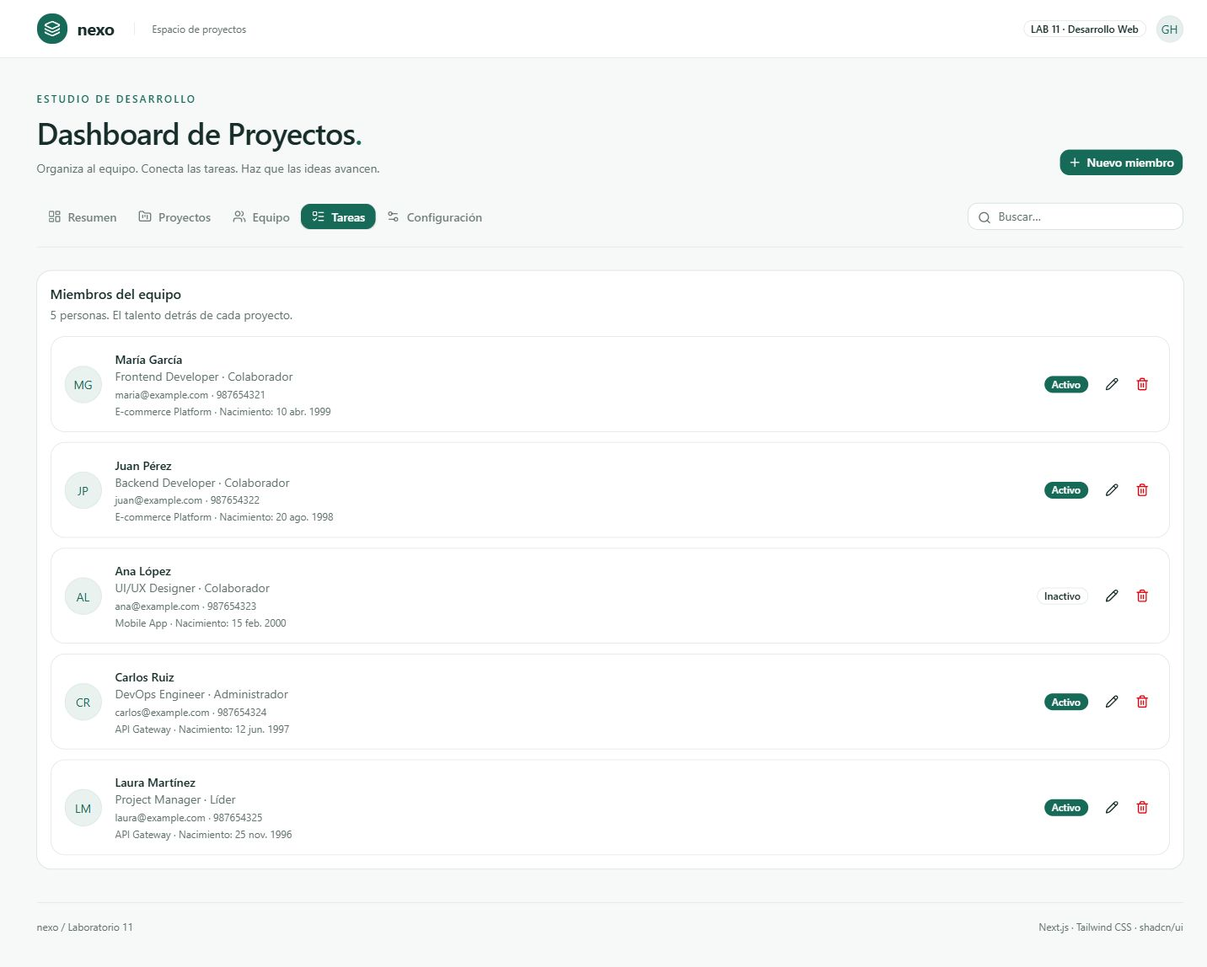
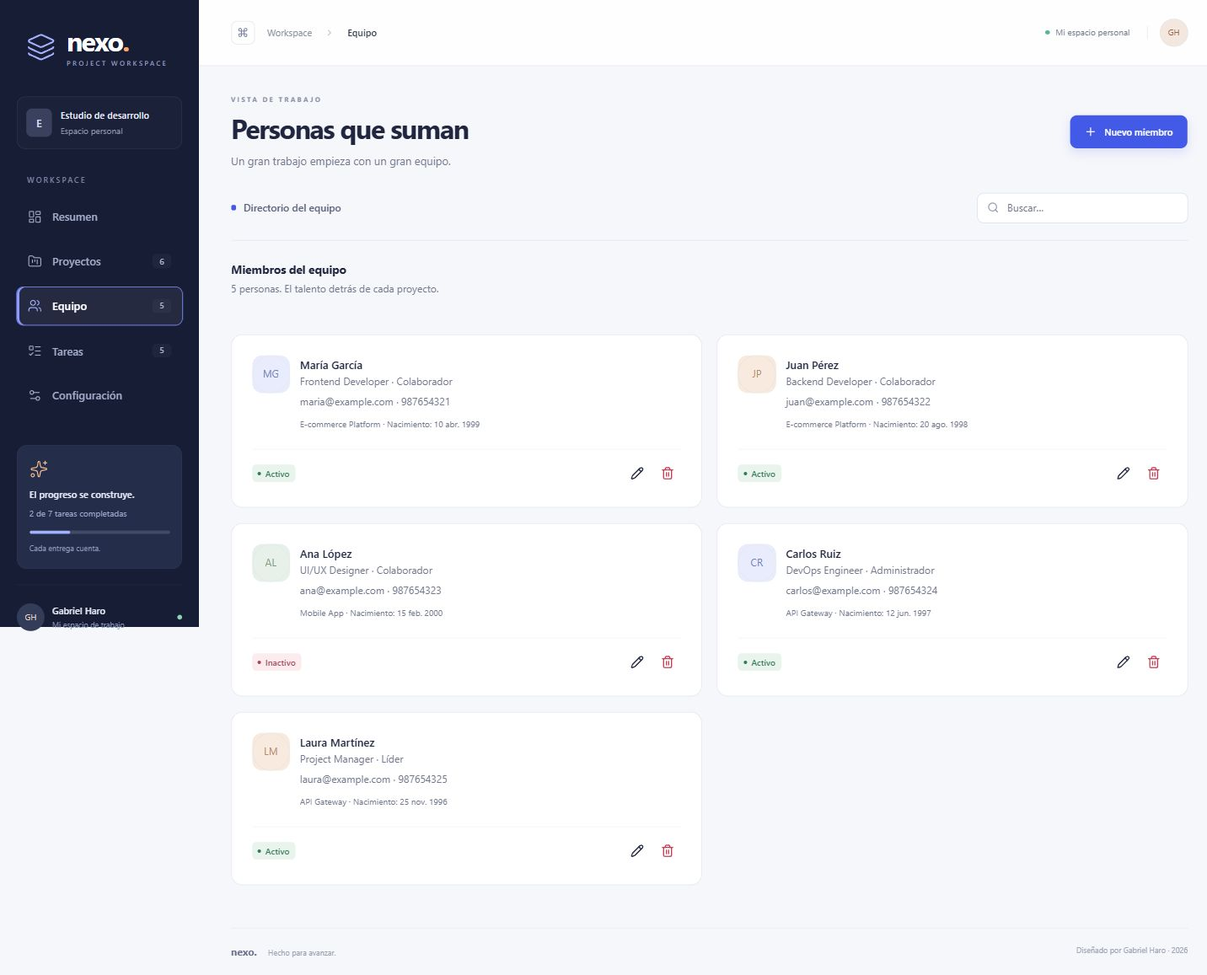
Actualizar informe y evidencias del diseño profesional

diff --git a/informe/Laboratorio11-GabrielHaroVargas.html b/informe/Laboratorio11-GabrielHaroVargas.html
@@ -1,1 +1,1 @@
-<!doctype html><html lang="es"><meta charset="utf-8"><meta name="viewport" content="width=device-width,initial-scale=1"><title>Laboratorio 11 Gabriel Haro Vargas</title><style>body{font:16px/1.65 "Segoe UI",Arial,sans-serif;color:#1e293b;background:#fff;max-width:1000px;margin:48px auto;padding:0 24px}h1{font-size:32px;line-height:1.25}h1,h2{color:#000}h2{font-size:23px;margin-top:38px}p{margin:16px 0}.meta,figcaption{color:#64748b;font-size:14px}figure{margin:24px 0}img{width:100%;height:auto;border:1px solid #ddd}li{margin:12px 0}a{color:#176958;overflow-wrap:anywhere}@media print{body{margin:0;font-size:11pt}section{break-before:auto}figure{break-inside:avoid}h2{break-after:avoid}img{max-height:7in;object-fit:contain}a{color:#000}}</style><body><h1>Laboratorio 11 Componentes y estilización</h1><p class="meta">Gabriel Haro Vargas · Desarrollo de Aplicaciones Web Avanzado · Laboratorio 11 · 31 de octubre de 2026</p><section><h2>Objetivo y resultado</h2><p>Se desarrollaron dos aplicaciones independientes con Next.js 16.4.3, React 19.3.0, TypeScript y Tailwind CSS 4. El primer ejercicio demuestra componentes reutilizables. El segundo implementa un dashboard con shadcn/ui y la lógica de negocio solicitada en la tarea. El código compila, pasa ESLint y las nueve pruebas de reglas de negocio.</p></section><section><h2>Ejercicio 1 Componentes reutilizables</h2><p>Button utiliza CSS Modules para el efecto de onda, gradientes, transiciones y spinner. Card y Badge emplean utilidades de Tailwind para estructura, colores y tamaños. Input combina etiqueta flotante y animación de error mediante CSS Modules con disposición adaptable y espaciado mediante Tailwind. Se corrigió la asociación entre etiquetas y campos, y se reforzó la validación del correo electrónico.</p><figure><img src="../evidencias/01-styling.jpg" alt="Ejercicio 1 Componentes reutilizables"><figcaption>Captura real de la aplicación en ejecución</figcaption></figure></section><section><h2>Resultado de combinar CSS Modules y TailwindCSS</h2><p>La combinación permite separar los efectos específicos del componente de las decisiones generales de diseño. Los módulos aíslan los estilos de onda, giro y etiqueta flotante para evitar colisiones entre componentes. Las utilidades de Tailwind permiten construir las tarjetas, rejillas, colores y tamaños sin escribir una hoja global extensa. En el formulario se observa esta integración: la etiqueta cambia de posición con CSS y el contenedor conserva la estructura responsive con clases utilitarias. Conviene reservar CSS Modules para los comportamientos visuales particulares y mantener el diseño habitual con Tailwind para facilitar el mantenimiento.</p><figure><img src="../evidencias/01-styling-formulario.jpg" alt="Resultado de combinar CSS Modules y TailwindCSS"><figcaption>Captura real de la aplicación en ejecución</figcaption></figure></section><section><h2>Ejercicio 2 Componentes de shadcn ui</h2><p>Se instalaron mediante el CLI oficial los componentes button, card, input, label, dialog, tabs, select, badge, avatar, switch, table, checkbox, spinner, alert, calendar, pagination, popover y textarea. Su código se encuentra en next-shadcn-ui/src/components/ui. Se utiliza una paleta verde petróleo y se ofrecen alternativas índigo y rosa en Configuración. La interfaz contiene las cinco secciones requeridas.</p></section><section><h2>Proyectos</h2><p>Se implementaron creación, listado, edición, vista de detalles y eliminación. Cada proyecto tiene nombre, descripción, categoría, prioridad, estado y miembros del equipo. Los detalles muestran miembros, tareas y porcentaje de avance calculado. Se rechazan nombres duplicados y datos obligatorios incompletos. Al eliminar un proyecto se eliminan sus tareas y se conservan los miembros. Esta consecuencia se informa antes de confirmar.</p><figure><img src="../evidencias/03-validacion.jpg" alt="Proyectos"><figcaption>Captura real de la aplicación en ejecución</figcaption></figure></section><section><h2>Equipo</h2><p>Se implementó el CRUD de miembros con todos los campos solicitados: userId, role, name, email, position, birthdate, phone, projectId e isActive. El identificador se genera automáticamente. Se comprueba formato de correo, duplicados, teléfono y fecha de nacimiento anterior a hoy. El proyecto principal y la pertenencia a equipos se mantienen relacionados. Eliminar un miembro conserva las tareas, pero las deja sin responsable.</p><figure><img src="../evidencias/04-equipo.jpg" alt="Equipo"><figcaption>Captura real de la aplicación en ejecución</figcaption></figure></section><section><h2>Tareas y paginación</h2><p>Se implementó el CRUD con description, projectId, status, priority, userId y dateline. Se utiliza projectId como nombre canónico del campo escrito prjectId en la guía. El responsable debe pertenecer al proyecto seleccionado. Hay búsqueda, filtro de estado, selección de filas y paginación real. La segunda página muestra los registros 6 y 7 de los siete iniciales; el tamaño puede cambiarse a 5, 10 o 20.</p><figure><img src="../evidencias/05-tareas.jpg" alt="Tareas y paginación"><figcaption>Captura real de la aplicación en ejecución</figcaption></figure></section><section><h2>Calendar Spinner y Alert</h2><p>Calendar se utiliza para fecha de nacimiento y fecha límite, con selección de día, mes y año. Las operaciones de guardado y eliminación simulan una petición de 700 milisegundos con Spinner y bloqueo de envíos repetidos. Alert muestra validaciones y confirmaciones de guardado. No se conecta un backend real, conforme a la simulación solicitada.</p><figure><img src="../evidencias/06-calendario.jpg" alt="Calendar Spinner y Alert"><figcaption>Captura real de la aplicación en ejecución</figcaption></figure></section><section><h2>Configuración y resumen</h2><p>Configuración guarda el nombre del espacio, correo, tema de color, tamaño de página, notificaciones y resumen semanal. El tema y la paginación se aplican a la interfaz; las preferencias de envío son simuladas. Resumen calcula proyectos, tareas completadas, tareas pendientes y miembros activos a partir de los datos actuales. El avance general es completadas dividido entre total de tareas; los datos iniciales producen 6 proyectos, 2 tareas completadas, 5 pendientes, 4 miembros activos y 29 % de avance. No se presentan horas trabajadas ficticias porque no existe un registro de horas.</p><figure><img src="../evidencias/07-configuracion.jpg" alt="Configuración y resumen"><figcaption>Captura real de la aplicación en ejecución</figcaption></figure></section><section><h2>Persistencia y reglas de integridad</h2><p>Los registros viven en memoria y además se conservan en localStorage bajo la clave lab11-nexo-v1. Recargar conserva los cambios en el mismo navegador. No existe una base de datos compartida entre usuarios. Al cambiar relaciones se evitan referencias a miembros o proyectos inexistentes. Los identificadores se generan con crypto.randomUUID y los porcentajes se calculan desde las tareas.</p></section><section><h2>Comprobaciones realizadas</h2><p>Ambas aplicaciones respondieron HTTP 200 y completaron npm run build y npm run lint. Las nueve pruebas npm test verificaron métricas, creación y edición de proyectos, validaciones y fechas, CRUD de miembros, CRUD de tareas, pertenencia del responsable, eliminación en cascada, limpieza de responsables y retiro de miembros de proyectos. En navegador se verificaron CRUD de proyectos, miembros y tareas, persistencia tras recargar, paginación, actualización de métricas, calendario y guardado de configuración. En la galería se verificaron error de correo, carga simulada y alerta de envío válido. Se completó la revisión del dashboard publicado con viewport de 390 × 844: el ancho del documento fue 375 px frente a 390 px de viewport, sin desbordamiento horizontal de la página. Se añadieron capturas de Resumen, Proyectos y el árbol de componentes UI en GitHub.</p></section><section><h2>Enlaces de entrega</h2><ul><li>Repositorio GitHub: <a href="https://github.com/gabrielharo-dotcom/laboratorio11-componentes-dashboard">https://github.com/gabrielharo-dotcom/laboratorio11-componentes-dashboard</a></li><li>Dashboard local: <a href="http://localhost:3000/dashboard">http://localhost:3000/dashboard</a></li><li>Galería local: <a href="http://localhost:3001/styling">http://localhost:3001/styling</a></li></ul><p>Dashboard publicado y verificado en Vercel: https://nexo-lab11.vercel.app/dashboard. Se comprobó la carga del dashboard en producción. Galería de componentes publicada y verificada: https://componentes-lab11.vercel.app/styling. Ambas aplicaciones se desplegaron desde el mismo repositorio utilizando su carpeta raíz correspondiente.</p></section><section><h2>Cinco conclusiones</h2><ol><li>La separación en componentes reutilizables permitió mantener la misma apariencia y comportamiento en varias secciones. Centralizar los controles y formularios evita repetir cambios y facilita corregir las validaciones.</li><li>CSS Modules y TailwindCSS se complementan cuando cada uno tiene una responsabilidad clara. Los efectos de onda, giro y etiqueta flotante permanecen aislados, mientras que Tailwind agiliza el diseño y el espaciado.</li><li>Instalar componentes de shadcn/ui proporciona una base útil, pero no resuelve por sí solo la lógica del sistema. Fue necesario implementar relaciones, validaciones, estados de carga y consecuencias de eliminación para que el dashboard fuera funcional.</li><li>Calcular las métricas desde los registros evita inconsistencias. Durante la prueba, completar una tarea incrementó el contador de tareas completadas de 2 a 3; eliminar la tarea de prueba restauró los valores correspondientes.</li><li>La persistencia local es adecuada para practicar una aplicación con datos en memoria y comprobar el flujo completo. Para un uso real con varios usuarios harían falta una API, una base de datos y control de acceso; las pruebas de integridad preparan esa evolución sin confundir la simulación con un backend real.</li></ol></section><section><h2>Referencias</h2><p>Guía GLAB-S11-EAREVALO-2026-1 del docente Edwin William Arévalo Sermeño.</p><p><a href="https://nextjs.org/docs/app/getting-started/installation">Documentación de Next.js</a> · <a href="https://ui.shadcn.com/docs/components">Componentes de shadcn/ui</a></p></section><section><h2>Evidencias adicionales en producción</h2><h3>Resumen publicado</h3><figure><img src="../evidencias/02-resumen.jpg" alt="Resumen publicado"><figcaption>Resumen publicado</figcaption></figure><h3>Proyectos publicados</h3><figure><img src="../evidencias/02-proyectos.jpg" alt="Proyectos publicados"><figcaption>Proyectos publicados</figcaption></figure><h3>Revisión móvil</h3><figure><img src="../evidencias/08-movil.jpg" alt="Revisión móvil"><figcaption>Revisión móvil</figcaption></figure><h3>Carpeta de componentes UI</h3><figure><img src="../evidencias/09-componentes-ui.jpg" alt="Carpeta de componentes UI"><figcaption>Carpeta de componentes UI</figcaption></figure></section><section><h2>Galería publicada</h2><p><a href="https://componentes-lab11.vercel.app/styling">Abrir ejercicio 1 en Vercel</a></p><figure><img src="../evidencias/10-galeria-publicada.jpg" alt="Galería publicada"></figure></section></body></html>
+<!doctype html><html lang="es"><meta charset="utf-8"><meta name="viewport" content="width=device-width,initial-scale=1"><title>Laboratorio 11 Gabriel Haro Vargas</title><style>body{font:16px/1.65 "Segoe UI",Arial,sans-serif;color:#1e293b;background:#fff;max-width:1000px;margin:48px auto;padding:0 24px}h1{font-size:32px;line-height:1.25}h1,h2{color:#000}h2{font-size:23px;margin-top:38px}p{margin:16px 0}.meta,figcaption{color:#64748b;font-size:14px}figure{margin:24px 0}img{width:100%;height:auto;border:1px solid #ddd}li{margin:12px 0}a{color:#176958;overflow-wrap:anywhere}@media print{body{margin:0;font-size:11pt}section{break-before:auto}figure{break-inside:avoid}h2{break-after:avoid}img{max-height:7in;object-fit:contain}a{color:#000}}</style><body><h1>Laboratorio 11 Componentes y estilización</h1><p class="meta">Gabriel Haro Vargas · Desarrollo de Aplicaciones Web Avanzado · Laboratorio 11 · 31 de octubre de 2026</p><section><h2>Objetivo y resultado</h2><p>Se desarrollaron dos aplicaciones independientes con Next.js 16.4.3, React 19.3.0, TypeScript y Tailwind CSS 4. El primer ejercicio demuestra componentes reutilizables. El segundo implementa un dashboard con shadcn/ui y la lógica de negocio solicitada en la tarea. El código compila, pasa ESLint y las nueve pruebas de reglas de negocio.</p></section><section><h2>Ejercicio 1 Componentes reutilizables</h2><p>Button utiliza CSS Modules para el efecto de onda, gradientes, transiciones y spinner. Card y Badge emplean utilidades de Tailwind para estructura, colores y tamaños. Input combina etiqueta flotante y animación de error mediante CSS Modules con disposición adaptable y espaciado mediante Tailwind. Se corrigió la asociación entre etiquetas y campos, y se reforzó la validación del correo electrónico.</p><figure><img src="../evidencias/01-styling.jpg" alt="Ejercicio 1 Componentes reutilizables"><figcaption>Captura real de la aplicación en ejecución</figcaption></figure></section><section><h2>Resultado de combinar CSS Modules y TailwindCSS</h2><p>La combinación permite separar los efectos específicos del componente de las decisiones generales de diseño. Los módulos aíslan los estilos de onda, giro y etiqueta flotante para evitar colisiones entre componentes. Las utilidades de Tailwind permiten construir las tarjetas, rejillas, colores y tamaños sin escribir una hoja global extensa. En el formulario se observa esta integración: la etiqueta cambia de posición con CSS y el contenedor conserva la estructura responsive con clases utilitarias. Conviene reservar CSS Modules para los comportamientos visuales particulares y mantener el diseño habitual con Tailwind para facilitar el mantenimiento.</p><figure><img src="../evidencias/01-styling-formulario.jpg" alt="Resultado de combinar CSS Modules y TailwindCSS"><figcaption>Captura real de la aplicación en ejecución</figcaption></figure></section><section><h2>Ejercicio 2 Componentes de shadcn ui</h2><p>Se instalaron mediante el CLI oficial los componentes button, card, input, label, dialog, tabs, select, badge, avatar, switch, table, checkbox, spinner, alert, calendar, pagination, popover y textarea. Su código se encuentra en next-shadcn-ui/src/components/ui. Se utiliza un diseño propio con barra lateral azul medianoche, portada cobalto, acentos naranja y tarjetas de métricas en lavanda, verde suave, durazno y lila. Se ofrecen alternativas ciruela y lavanda, y terracota y arena en Configuración. La interfaz contiene las cinco secciones requeridas.</p></section><section><h2>Proyectos</h2><p>Se implementaron creación, listado, edición, vista de detalles y eliminación. Cada proyecto tiene nombre, descripción, categoría, prioridad, estado y miembros del equipo. Los detalles muestran miembros, tareas y porcentaje de avance calculado. Se rechazan nombres duplicados y datos obligatorios incompletos. Al eliminar un proyecto se eliminan sus tareas y se conservan los miembros. Esta consecuencia se informa antes de confirmar.</p><figure><img src="../evidencias/03-validacion.jpg" alt="Proyectos"><figcaption>Captura real de la aplicación en ejecución</figcaption></figure></section><section><h2>Equipo</h2><p>Se implementó el CRUD de miembros con todos los campos solicitados: userId, role, name, email, position, birthdate, phone, projectId e isActive. El identificador se genera automáticamente. Se comprueba formato de correo, duplicados, teléfono y fecha de nacimiento anterior a hoy. El proyecto principal y la pertenencia a equipos se mantienen relacionados. Eliminar un miembro conserva las tareas, pero las deja sin responsable.</p><figure><img src="../evidencias/04-equipo.jpg" alt="Equipo"><figcaption>Captura real de la aplicación en ejecución</figcaption></figure></section><section><h2>Tareas y paginación</h2><p>Se implementó el CRUD con description, projectId, status, priority, userId y dateline. Se utiliza projectId como nombre canónico del campo escrito prjectId en la guía. El responsable debe pertenecer al proyecto seleccionado. Hay búsqueda, filtro de estado, selección de filas y paginación real. La segunda página muestra los registros 6 y 7 de los siete iniciales; el tamaño puede cambiarse a 5, 10 o 20.</p><figure><img src="../evidencias/05-tareas.jpg" alt="Tareas y paginación"><figcaption>Captura real de la aplicación en ejecución</figcaption></figure></section><section><h2>Calendar Spinner y Alert</h2><p>Calendar se utiliza para fecha de nacimiento y fecha límite, con selección de día, mes y año. Las operaciones de guardado y eliminación simulan una petición de 700 milisegundos con Spinner y bloqueo de envíos repetidos. Alert muestra validaciones y confirmaciones de guardado. No se conecta un backend real, conforme a la simulación solicitada.</p><figure><img src="../evidencias/06-calendario.jpg" alt="Calendar Spinner y Alert"><figcaption>Captura real de la aplicación en ejecución</figcaption></figure></section><section><h2>Configuración y resumen</h2><p>Configuración guarda el nombre del espacio, correo, tema de color, tamaño de página, notificaciones y resumen semanal. El tema y la paginación se aplican a la interfaz; las preferencias de envío son simuladas. Resumen calcula proyectos, tareas completadas, tareas pendientes y miembros activos a partir de los datos actuales. El avance general es completadas dividido entre total de tareas; los datos iniciales producen 6 proyectos, 2 tareas completadas, 5 pendientes, 4 miembros activos y 29 % de avance. No se presentan horas trabajadas ficticias porque no existe un registro de horas.</p><figure><img src="../evidencias/07-configuracion.jpg" alt="Configuración y resumen"><figcaption>Captura real de la aplicación en ejecución</figcaption></figure></section><section><h2>Persistencia y reglas de integridad</h2><p>Los registros viven en memoria y además se conservan en localStorage bajo la clave lab11-nexo-v1. Recargar conserva los cambios en el mismo navegador. No existe una base de datos compartida entre usuarios. Al cambiar relaciones se evitan referencias a miembros o proyectos inexistentes. Los identificadores se generan con crypto.randomUUID y los porcentajes se calculan desde las tareas.</p></section><section><h2>Comprobaciones realizadas</h2><p>Ambas aplicaciones respondieron HTTP 200 y completaron npm run build y npm run lint. Las nueve pruebas npm test verificaron métricas, creación y edición de proyectos, validaciones y fechas, CRUD de miembros, CRUD de tareas, pertenencia del responsable, eliminación en cascada, limpieza de responsables y retiro de miembros de proyectos. En navegador se verificaron CRUD de proyectos, miembros y tareas, persistencia tras recargar, paginación, actualización de métricas, calendario y guardado de configuración. En la galería se verificaron error de correo, carga simulada y alerta de envío válido. Se completó la revisión del dashboard publicado con viewport de 390 × 844: el ancho del documento fue 375 px frente a 390 px de viewport, sin desbordamiento horizontal de la página. Se añadieron capturas de Resumen, Proyectos y el árbol de componentes UI en GitHub.</p></section><section><h2>Enlaces de entrega</h2><ul><li>Repositorio GitHub: <a href="https://github.com/gabrielharo-dotcom/laboratorio11-componentes-dashboard">https://github.com/gabrielharo-dotcom/laboratorio11-componentes-dashboard</a></li><li>Dashboard local: <a href="http://localhost:3000/dashboard">http://localhost:3000/dashboard</a></li><li>Galería local: <a href="http://localhost:3001/styling">http://localhost:3001/styling</a></li></ul><p>Dashboard publicado y verificado en Vercel: https://nexo-lab11.vercel.app/dashboard. Se comprobó la carga del dashboard en producción. Galería de componentes publicada y verificada: https://componentes-lab11.vercel.app/styling. Ambas aplicaciones se desplegaron desde el mismo repositorio utilizando su carpeta raíz correspondiente.</p></section><section><h2>Cinco conclusiones</h2><ol><li>La separación en componentes reutilizables permitió mantener la misma apariencia y comportamiento en varias secciones. Centralizar los controles y formularios evita repetir cambios y facilita corregir las validaciones.</li><li>CSS Modules y TailwindCSS se complementan cuando cada uno tiene una responsabilidad clara. Los efectos de onda, giro y etiqueta flotante permanecen aislados, mientras que Tailwind agiliza el diseño y el espaciado.</li><li>Instalar componentes de shadcn/ui proporciona una base útil, pero no resuelve por sí solo la lógica del sistema. Fue necesario implementar relaciones, validaciones, estados de carga y consecuencias de eliminación para que el dashboard fuera funcional.</li><li>Calcular las métricas desde los registros evita inconsistencias. Durante la prueba, completar una tarea incrementó el contador de tareas completadas de 2 a 3; eliminar la tarea de prueba restauró los valores correspondientes.</li><li>La persistencia local es adecuada para practicar una aplicación con datos en memoria y comprobar el flujo completo. Para un uso real con varios usuarios harían falta una API, una base de datos y control de acceso; las pruebas de integridad preparan esa evolución sin confundir la simulación con un backend real.</li></ol></section><section><h2>Referencias</h2><p>Guía GLAB-S11-EAREVALO-2026-1 del docente Edwin William Arévalo Sermeño.</p><p><a href="https://nextjs.org/docs/app/getting-started/installation">Documentación de Next.js</a> · <a href="https://ui.shadcn.com/docs/components">Componentes de shadcn/ui</a></p></section><section><h2>Evidencias adicionales en producción</h2><h3>Resumen publicado</h3><figure><img src="../evidencias/02-resumen.jpg" alt="Resumen publicado"><figcaption>Resumen publicado</figcaption></figure><h3>Proyectos publicados</h3><figure><img src="../evidencias/02-proyectos.jpg" alt="Proyectos publicados"><figcaption>Proyectos publicados</figcaption></figure><h3>Revisión móvil</h3><figure><img src="../evidencias/08-movil.jpg" alt="Revisión móvil"><figcaption>Revisión móvil</figcaption></figure><h3>Carpeta de componentes UI</h3><figure><img src="../evidencias/09-componentes-ui.jpg" alt="Carpeta de componentes UI"><figcaption>Carpeta de componentes UI</figcaption></figure></section><section><h2>Galería publicada</h2><p><a href="https://componentes-lab11.vercel.app/styling">Abrir ejercicio 1 en Vercel</a></p><figure><img src="../evidencias/10-galeria-publicada.jpg" alt="Galería publicada"></figure></section><section><h2>Rediseño profesional de la tarea</h2><p>El dashboard se rediseñó con una estructura distinta del ejemplo de la guía. La barra lateral contiene navegación, contadores y progreso; el resumen incorpora portada gráfica, métricas diferenciadas y agenda real de entregas. Los proyectos tienen portadas geométricas y el equipo se presenta como un directorio de tarjetas. Los colores de estado distinguen progreso, pendientes, completados y prioridad. En móvil la navegación cambia a una barra superior y las tarjetas se reorganizan. Se mantuvieron las funciones del laboratorio y la persistencia de los registros.</p><figure><img src="../evidencias/11-dashboard-redisenado.jpg" alt="Nuevo diseño del dashboard"></figure></section></body></html>

diff --git a/DISENO.md b/DISENO.md
@@ -1,0 +1,38 @@
+# Diseño de la tarea del laboratorio 11
+
+El dashboard Nexo utiliza una composición propia para distinguirse del ejemplo de la guía: navegación lateral azul medianoche, área de trabajo clara, portada cobalto, indicadores con tonos suaves y tarjetas de proyectos con portadas geométricas.
+
+## Paleta principal
+
+| Color | Valor | Uso |
+| --- | --- | --- |
+| Azul medianoche | `#171D35` | Navegación y marca |
+| Cobalto | `#4359E8` | Acciones principales y portada del resumen |
+| Naranja suave | `#F8C49C` | Énfasis en portada y avance |
+| Fondo frío | `#F6F7FB` | Área de trabajo |
+| Texto oscuro | `#202640` | Títulos y datos |
+| Lavanda | `#EBEDFF` | Proyectos y métricas de portafolio |
+| Verde suave | `#E9F5EE` | Tareas completadas |
+| Durazno | `#FFF0E4` | Tareas pendientes |
+| Lila | `#F3ECFB` | Equipo y categorías |
+
+## Composición y jerarquía
+
+- Barra lateral con marca, espacio de trabajo, cinco secciones, contadores reales y avance del equipo.
+- Encabezado con ruta de navegación y perfil. Cada sección tiene título y descripción propios.
+- Acción principal visible para crear un proyecto, miembro o tarea según el contexto.
+- Resumen con portada gráfica, avance circular calculado, cuatro métricas y agenda de entregas.
+- Proyectos con monogramas, portadas geométricas, categorías, estados, avance y acciones.
+- Equipo organizado como directorio de tarjetas con identidad visual y acciones separadas del contenido.
+- Tareas en tabla con encabezado diferenciado, estados semánticos y paginación.
+- Configuración con tres paletas: cobalto y medianoche, ciruela y lavanda, terracota y arena.
+
+La tipografía usa Segoe UI y alternativas del sistema. Los números grandes destacan las métricas; los títulos, las etiquetas y los textos auxiliares tienen niveles diferenciados. Los iconos proceden de Lucide y las piezas de interfaz mantienen los componentes de shadcn/ui.
+
+## Adaptación a pantallas pequeñas
+
+La navegación lateral se transforma en una barra superior compacta. Las métricas usan dos columnas, los proyectos y las personas una columna, y la tabla se desplaza dentro de su contenedor sin ensanchar la página. Los formularios mantienen su desplazamiento vertical y las etiquetas asociadas a los controles.
+
+## Funcionalidad conservada
+
+Se mantienen el CRUD de las tres entidades, las validaciones, los calendarios, los estados de carga, las confirmaciones, la paginación, las métricas dinámicas y los datos guardados en el navegador. La agenda del resumen muestra las tres primeras tareas no completadas ordenadas por fecha y permite abrir su búsqueda en Tareas.

diff --git a/informe/Laboratorio11-GabrielHaroVargas.md b/informe/Laboratorio11-GabrielHaroVargas.md
@@ -32,7 +32,7 @@ La combinación permite separar los efectos específicos del componente de las d
 
 ## Ejercicio 2 Componentes de shadcn ui
 
-Se instalaron mediante el CLI oficial los componentes button, card, input, label, dialog, tabs, select, badge, avatar, switch, table, checkbox, spinner, alert, calendar, pagination, popover y textarea. Su código se encuentra en next-shadcn-ui/src/components/ui. Se utiliza una paleta verde petróleo y se ofrecen alternativas índigo y rosa en Configuración. La interfaz contiene las cinco secciones requeridas.
+Se instalaron mediante el CLI oficial los componentes button, card, input, label, dialog, tabs, select, badge, avatar, switch, table, checkbox, spinner, alert, calendar, pagination, popover y textarea. Su código se encuentra en next-shadcn-ui/src/components/ui. Se utiliza un diseño propio con barra lateral azul medianoche, portada cobalto, acentos naranja y tarjetas de métricas en lavanda, verde suave, durazno y lila. Se ofrecen alternativas ciruela y lavanda, y terracota y arena en Configuración. La interfaz contiene las cinco secciones requeridas.
 
 
 
@@ -149,3 +149,10 @@ Dashboard publicado y verificado en Vercel: https://nexo-lab11.vercel.app/dashbo
 ### Galería publicada
 
 ![Galería publicada](../evidencias/10-galeria-publicada.jpg)
+
+
+## Rediseño profesional de la tarea
+
+El dashboard se rediseñó con una estructura distinta del ejemplo de la guía. La barra lateral contiene navegación, contadores y progreso; el resumen incorpora portada gráfica, métricas diferenciadas y agenda real de entregas. Los proyectos tienen portadas geométricas y el equipo se presenta como un directorio de tarjetas. Los colores de estado distinguen progreso, pendientes, completados y prioridad. En móvil la navegación cambia a una barra superior y las tarjetas se reorganizan. Se mantuvieron las funciones del laboratorio y la persistencia de los registros.
+
+![Nuevo diseño del dashboard](../evidencias/11-dashboard-redisenado.jpg)

diff --git a/README.md b/README.md
@@ -32,7 +32,7 @@ Abrir http://localhost:3001/styling. También se puede ejecutar `INICIAR-LAB.cmd
 
 ## Ejercicio 2 y tarea
 
-El dashboard Nexo tiene un tema verde petróleo, con alternativas índigo y rosa en Configuración. Usa componentes oficiales generados por el CLI shadcn/ui, basados en Radix UI.
+El dashboard Nexo tiene un diseño propio con navegación azul medianoche, portada cobalto, acentos naranja y métricas en lavanda, verde suave, durazno y lila. Configuración ofrece tres paletas: cobalto y medianoche, ciruela y lavanda, y terracota y arena. Consulta `DISENO.md` para la justificación visual. Usa componentes oficiales generados por el CLI shadcn/ui, basados en Radix UI.
 
 | Requisito | Implementación |
 | --- | --- |
